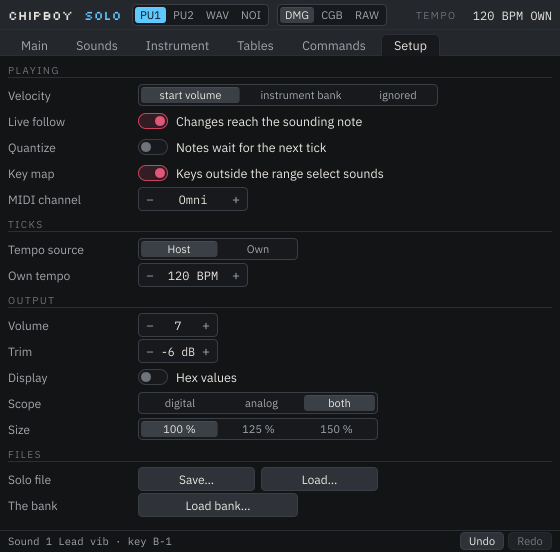
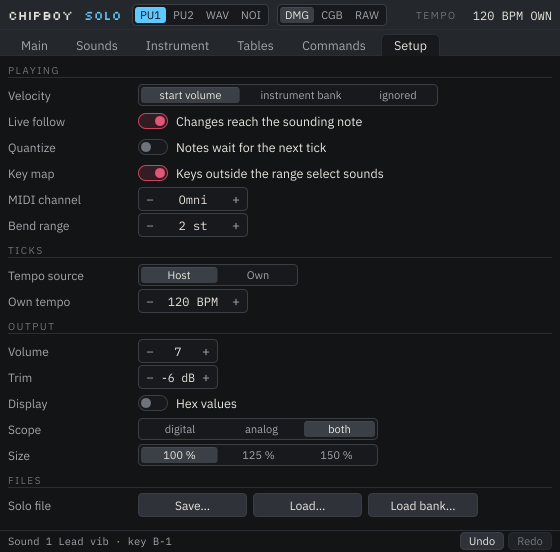
Solo: a Bend range parameter; the Setup page's files on one row
The pitch wheel's reach, 1-24 semitones, 2 unless set: Driver::setBendRange
per channel, read when the wheel moves; ChipBoy never sets it, so its
bends are as they were. Checked in chipboy_solotest. The Setup page's
Save, Load and Load bank buttons share one row to make room.

Claude-Session: https://claude.ai/code/session_017xjfhsuF4KGRWmf3FzZwSg

diff --git a/Source/plugin/solo/SoloEditor.cpp b/Source/plugin/solo/SoloEditor.cpp
@@ -714,11 +714,19 @@ void CommandsPanel::resized()
 
 namespace {
 /// Two buttons on one form row.
-class ButtonPair : public Component {
+/// Three buttons on one row of the form, equal widths.
+class ButtonRow : public Component {
 public:
-    ButtonPair(const String& a, const String& b) : first(a), second(b) { addAndMakeVisible(first); addAndMakeVisible(second); }
-    TextButton first, second;
-    void resized() override { auto r = getLocalBounds(); first.setBounds(r.removeFromLeft((r.getWidth() - 6) / 2)); r.removeFromLeft(6); second.setBounds(r); }
+    ButtonRow(const String& a, const String& b, const String& c) : first(a), second(b), third(c) { addAndMakeVisible(first); addAndMakeVisible(second); addAndMakeVisible(third); }
+    TextButton first, second, third;
+    void resized() override
+    {
+        auto r = getLocalBounds();
+        const int w = (r.getWidth() - 12) / 3;
+        first.setBounds(r.removeFromLeft(w)); r.removeFromLeft(6);
+        second.setBounds(r.removeFromLeft(w)); r.removeFromLeft(6);
+        third.setBounds(r);
+    }
 };
 } // namespace
 
@@ -754,6 +762,13 @@ SetupPanel::SetupPanel(SoloProcessor& p) : EditorPanel(p), processor_(p)
         st->attach(param(processor_, solo::ids::midiChannel));
         st->setTextFunction([](int v) { return v == 0 ? String("Omni") : "MIDI " + String(v); });
         play->add("MIDI channel", std::move(st), 110, Stepper::kHeight, "Omni takes every channel of the track's MIDI; a number takes that channel only -- for a split keyboard, or two Solos on one track");
+    }
+    {
+        auto st = std::make_unique<Stepper>();
+        st->setRange(1, 24, 2);
+        st->attach(param(processor_, solo::ids::bendRange));
+        st->setTextFunction([](int v) { return String(v) + " st"; });
+        play->add("Bend range", std::move(st), 110, Stepper::kHeight, "The pitch wheel's reach at full deflection, in semitones; the mod wheel is vibrato depth");
     }
     stack->add(std::move(play));
     auto time = std::make_unique<FormGroup>("Ticks", 130);
@@ -809,15 +824,15 @@ SetupPanel::SetupPanel(SoloProcessor& p) : EditorPanel(p), processor_(p)
     stack->add(std::move(out));
     auto files = std::make_unique<FormGroup>("Files", 130);
     {
-        auto pair = std::make_unique<ButtonPair>("Save" + String(CharPointer_UTF8("\xe2\x80\xa6")), "Load" + String(CharPointer_UTF8("\xe2\x80\xa6")));
-        pair->first.onClick = [this] { saveFile(); };
-        pair->second.onClick = [this] { loadFile(); };
-        files->add("Solo file", std::move(pair), 240, 24, "The bank, the sounds, the library, the key maps, the channel and the row as a .cbsolo file; loading one replaces all of that, as one undo step");
-    }
-    {
-        auto b = std::make_unique<TextButton>("Load bank" + String(CharPointer_UTF8("\xe2\x80\xa6")));
-        b->onClick = [this] { loadBankFile(); };
-        files->add("The bank", std::move(b), 160, 24, "A ChipBoy bank file (.chipboy), or the bank inside a song file (.cbsong), replaces the instruments, tables, waves and kits; the Instrument page loads a single .cbi preset");
+        const String more = String(CharPointer_UTF8("\xe2\x80\xa6"));
+        auto row = std::make_unique<ButtonRow>("Save" + more, "Load" + more, "Load bank" + more);
+        row->first.onClick = [this] { saveFile(); };
+        row->second.onClick = [this] { loadFile(); };
+        row->third.onClick = [this] { loadBankFile(); };
+        row->first.setTooltip("The bank, the sounds, the library, the key maps, the channel and the row as a .cbsolo file");
+        row->second.setTooltip("A .cbsolo file replaces the bank, the sounds, the library, the key maps, the channel and the row, as one undo step");
+        row->third.setTooltip("A ChipBoy bank file (.chipboy), or the bank inside a song file (.cbsong), replaces the instruments, tables, waves and kits; the Instrument page loads a single .cbi preset");
+        files->add("Solo file", std::move(row), 340, 24, "Save and load the whole instance as a .cbsolo file, or take a bank from a ChipBoy bank or song file");
     }
     stack->add(std::move(files));
     scroll_.setContent(std::move(stack));

diff --git a/Source/plugin/solo/SoloProcessor.cpp b/Source/plugin/solo/SoloProcessor.cpp
@@ -41,7 +41,7 @@ struct SnapshotAction : UndoableAction {
     int getSizeInUnits() override { return int(sizeof(T)) * 2; }
 };
 
-const char* kParamIds[] = { sid::channel, sid::model, sid::tempoSource, sid::tempo, sid::notesOnTick, sid::sound, sid::volume, sid::trim, sid::hexDisplay, sid::keyMap, sid::midiChannel };
+const char* kParamIds[] = { sid::channel, sid::model, sid::tempoSource, sid::tempo, sid::notesOnTick, sid::sound, sid::volume, sid::trim, sid::hexDisplay, sid::keyMap, sid::midiChannel, sid::bendRange };
 const char* kRowIds[] = { plugin::ids::instrument, plugin::ids::table, plugin::ids::level, plugin::ids::pan, plugin::ids::transpose,
                           plugin::ids::cmd1Type, plugin::ids::cmd1X, plugin::ids::cmd1Y, plugin::ids::cmd2Type, plugin::ids::cmd2X, plugin::ids::cmd2Y,
                           plugin::ids::liveFollow, plugin::ids::velocityMode, plugin::ids::keyswitch };
@@ -63,6 +63,7 @@ AudioProcessorValueTreeState::ParameterLayout SoloProcessor::createLayout()
     L.add(std::make_unique<AudioParameterBool>(ParameterID(sid::hexDisplay, 1), "Hex Display", false));
     L.add(std::make_unique<AudioParameterBool>(ParameterID(sid::keyMap, 1), "Key Map", true));
     L.add(intParam(sid::midiChannel, "MIDI Channel", 0, 16, 0, [](int v, int) { return v == 0 ? String("Omni") : String(v); }));
+    L.add(intParam(sid::bendRange, "Bend Range", 1, 24, 2, [](int v, int) { return String(v) + " st"; }));
     // The row: one lane set, every letter allowed since the channel can move;
     // Live follow on, so a change reaches the sounding note (plan section 2).
     addChannelParameters(L, sid::prefix, ChannelKind::Any, false, true);
@@ -75,7 +76,7 @@ SoloProcessor::SoloProcessor()
 {
     params.bind(apvts, sid::prefix);
     pChannel_ = raw(sid::channel); pModel_ = raw(sid::model); pTempoSource_ = raw(sid::tempoSource); pTempo_ = raw(sid::tempo);
-    pNotesOnTick_ = raw(sid::notesOnTick); pSound_ = raw(sid::sound); pVolume_ = raw(sid::volume); pTrim_ = raw(sid::trim); pKeyMap_ = raw(sid::keyMap); pMidiChannel_ = raw(sid::midiChannel);
+    pNotesOnTick_ = raw(sid::notesOnTick); pSound_ = raw(sid::sound); pVolume_ = raw(sid::volume); pTrim_ = raw(sid::trim); pKeyMap_ = raw(sid::keyMap); pMidiChannel_ = raw(sid::midiChannel); pBendRange_ = raw(sid::bendRange);
     events_.reserve(2048); writes_.reserve(8192);
     cycleAt_ = [this](uint64_t f) { return renderer_.cycleForFrame(f); };
     // `new T(prvalue)` builds the bank in its heap block: 41 KB never sits
@@ -368,6 +369,7 @@ void SoloProcessor::processBlock(AudioBuffer<float>& buffer, MidiBuffer& midi)
         sustain_ = false; sustained_.fill(false); keyDown_.fill(false);
     }
     driver_.setGateMask(1u << ch);
+    driver_.setBendRange(ch, double(std::clamp(paramInt(pBendRange_, 2), 1, 24)));
     driver::GlobalParams g;
     g.masterL = g.masterR = uint8_t(std::clamp(paramInt(pVolume_, 7), 0, 7));
     driver_.setGlobal(g);

diff --git a/tools/solotest/main.cpp b/tools/solotest/main.cpp
@@ -335,6 +335,28 @@ int main(int argc, char** argv)
         juce::MidiBuffer off; off.addEvent(juce::MidiMessage::noteOff(1, 60), 0);
         run(solo, off, 8, on);
     }
+    // --- the bend range: the wheel reaches further at 12 than at 2 --------------
+    {
+        auto bentPeriod = [&](float range) {
+            set(solo.apvts, solo::ids::bendRange, range);
+            juce::MidiBuffer m;
+            m.addEvent(juce::MidiMessage::noteOn(1, 60, (juce::uint8) 100), 0);
+            m.addEvent(juce::MidiMessage::pitchWheel(1, 16383), 32);
+            int on = 0; run(solo, m, 8, on);
+            const int period = int(solo.driverView().view(0).period);
+            juce::MidiBuffer off; off.addEvent(juce::MidiMessage::pitchWheel(1, 8192), 0); off.addEvent(juce::MidiMessage::noteOff(1, 60), 16);
+            run(solo, off, 8, on);
+            return period;
+        };
+        const int at2 = bentPeriod(2.0f), at12 = bentPeriod(12.0f), plain = [&] {
+            juce::MidiBuffer m; m.addEvent(juce::MidiMessage::noteOn(1, 60, (juce::uint8) 100), 0);
+            int on = 0; run(solo, m, 8, on);
+            const int period = int(solo.driverView().view(0).period);
+            juce::MidiBuffer off; off.addEvent(juce::MidiMessage::noteOff(1, 60), 0); run(solo, off, 8, on);
+            return period; }();
+        check(at2 > plain && at12 > at2, "a full bend raises the period register more at 12 semitones than at 2");
+        set(solo.apvts, solo::ids::bendRange, 2.0f);
+    }
     // --- Stop: every note off, the pedal too -----------------------------------
     {
         juce::MidiBuffer m;

diff --git a/Source/plugin/solo/SoloProcessor.h b/Source/plugin/solo/SoloProcessor.h
@@ -41,6 +41,7 @@ constexpr const char* trim = "trim";
 constexpr const char* hexDisplay = "hex";
 constexpr const char* keyMap = "keymap";            ///< keys outside the range select sounds
 constexpr const char* midiChannel = "midi_channel"; ///< 0 omni, 1-16 one channel of the track's MIDI
+constexpr const char* bendRange = "bend_range";     ///< the wheel's reach, semitones (2 as MIDI's usual)
 constexpr const char* prefix = "s_";                ///< the channel set (Parameters.h ids::)
 } // namespace solo::ids
 
@@ -202,7 +203,7 @@ private:
     // parameters
     std::atomic<float>* pChannel_ = nullptr; std::atomic<float>* pModel_ = nullptr; std::atomic<float>* pTempoSource_ = nullptr;
     std::atomic<float>* pTempo_ = nullptr; std::atomic<float>* pNotesOnTick_ = nullptr; std::atomic<float>* pSound_ = nullptr;
-    std::atomic<float>* pVolume_ = nullptr; std::atomic<float>* pTrim_ = nullptr; std::atomic<float>* pKeyMap_ = nullptr; std::atomic<float>* pMidiChannel_ = nullptr;
+    std::atomic<float>* pVolume_ = nullptr; std::atomic<float>* pTrim_ = nullptr; std::atomic<float>* pKeyMap_ = nullptr; std::atomic<float>* pMidiChannel_ = nullptr; std::atomic<float>* pBendRange_ = nullptr;
 
     JUCE_DECLARE_NON_COPYABLE_WITH_LEAK_DETECTOR(SoloProcessor)
 };

diff --git a/Source/core/Driver/Driver.h b/Source/core/Driver/Driver.h
@@ -129,6 +129,9 @@ public:
     /// on the next tick, and pops like the hardware does.
     void setGateMask(uint32_t enabledMask) { const uint8_t m = uint8_t(enabledMask & 15); if (m != gateMask_) { gateMask_ = m; gateDirty_ = true; } }
     uint32_t gateMask() const { return gateMask_; }
+    /// The pitch wheel's reach at full deflection, in semitones (2 unless
+    /// set: MIDI's usual). Read when the wheel moves.
+    void setBendRange(int ch, double semitones) { bendRange_[size_t(ch & 3)] = semitones; }
 
     void setParams(int ch, const ChannelParams& p) { params_[size_t(ch & 3)] = p; }
     const ChannelParams& params(int ch) const { return params_[size_t(ch & 3)]; }
@@ -700,6 +703,7 @@ private:
     const tracker::Song* song_ = nullptr;
     std::array<const bank::Instrument*, 4> local_{};
     uint32_t recordMask_ = 0;
+    std::array<double, 4> bendRange_{ 2.0, 2.0, 2.0, 2.0 };
     uint8_t gateMask_ = 15;
     bool gateDirty_ = false;
     Console model_ = Console::DMG;

diff --git a/Source/core/Driver/Driver.cpp b/Source/core/Driver/Driver.cpp
@@ -3561,7 +3561,7 @@ void Driver::handleEvent(NoteEvent& e)
             noteOff(ch, e.a, e.mapped);
             if (e.source == NoteEvent::Tracker) applyCellColumns(ch, e);
             break;
-        case NoteEvent::PitchBend: v.bend = double(e.value) / 8192.0 * 2.0; if (v.active) writePeriod(ch, false); break;
+        case NoteEvent::PitchBend: v.bend = double(e.value) / 8192.0 * bendRange_[size_t(ch & 3)]; if (v.active) writePeriod(ch, false); break;
         case NoteEvent::Control:
             if (e.a == 1) { v.vibDepth = uint8_t(e.b / 8); v.vibOn = e.b != 0; }   // the mod wheel is vibrato depth
             // CC7 is a level change: zombie-mode writes, no trigger (26).

diff --git a/docs/UI_DESIGN.md b/docs/UI_DESIGN.md
@@ -741,9 +741,9 @@ a DAW track or a keyboard: 560 × 552, fixed, one page at a time -- the width an
   mode -- a slot stepper with the buttons in one row instead of the slot list, the
   stepper's right click listing the bank by name; WAV only for the last two),
   **Commands** (the library with → CMD 1 / → CMD 2 and Store CMD 1 / 2, and the letter
-  reference), **Setup** (velocity, Live follow, Quantize, the key map, tempo source and own
-  tempo, volume, trim, Hex, the scope's trace, the window's size at 100 / 125 / 150 %, the
-  `.cbsolo` and bank files).
+  reference), **Setup** (velocity, Live follow, Quantize, the key map, MIDI channel, bend
+  range, tempo source and own tempo, volume, trim, Hex, the scope's trace, the window's size
+  at 100 / 125 / 150 %, and one row of files: Save…, Load…, Load bank…).
 - The status line: the page's context line, a message for a few seconds when there is one, undo and redo at its right.
 
 ![ChipBoy Solo: the Main page](screenshots/solo-main.png)

diff --git a/docs/HANDOFF.md b/docs/HANDOFF.md
@@ -137,7 +137,9 @@ state file is `ChipBoy.settings` under the app-data folder (`%APPDATA%\ChipBoy` 
   out from the right (the frame readout keeps its width, the name takes the rest, no
   FRAME label), the Kits page's table hint shortened, and the Main page's note line
   reduced to the range and the note (the recall is the status line's), and a **Stop**
-  button on the Main page (every note off, the pedal too; `stopNotes`, checked).
+  button on the Main page (every note off, the pedal too; `stopNotes`, checked), a
+  **Bend range** parameter (`Driver::setBendRange`, 2 st unless set; checked) with the
+  Setup page's files on one row to make room for it.
 - **A record-test flake fixed on the way** (§226 amendment): a message for a row already
   fitted opened a second take and its finish cleared the row; a second take now re-fits
   the row over the union of both takes' messages. The groove cases record the same with

diff --git a/docs/COMMANDS_AND_TEMPO.md b/docs/COMMANDS_AND_TEMPO.md
@@ -6787,7 +6787,9 @@ ChipBoy Voice, which stays in the tree this round.
   NOI) picks the voice; only it is gated on (NR51) and only it receives events; a change
   flushes the channel it left (§9.1). Every MIDI channel of the track reaches it, or one
   chosen by the **MIDI channel** parameter (Setup), for a split keyboard or two Solos on one
-  track. The
+  track. The pitch wheel's reach is the **Bend range** parameter (1-24 semitones, 2 as
+  MIDI's usual: `Driver::setBendRange`, per channel, read when the wheel moves; ChipBoy
+  never sets it, so its bends are as they were). The
   ticks are the host's beat (Tempo source Host) or the own **Tempo** parameter, and free-run
   while the transport is stopped or absent, as the Clock always has (§4), so tables and
   commands run live. Quantize (`notes_on_tick`) is off by default. The **sustain pedal**
